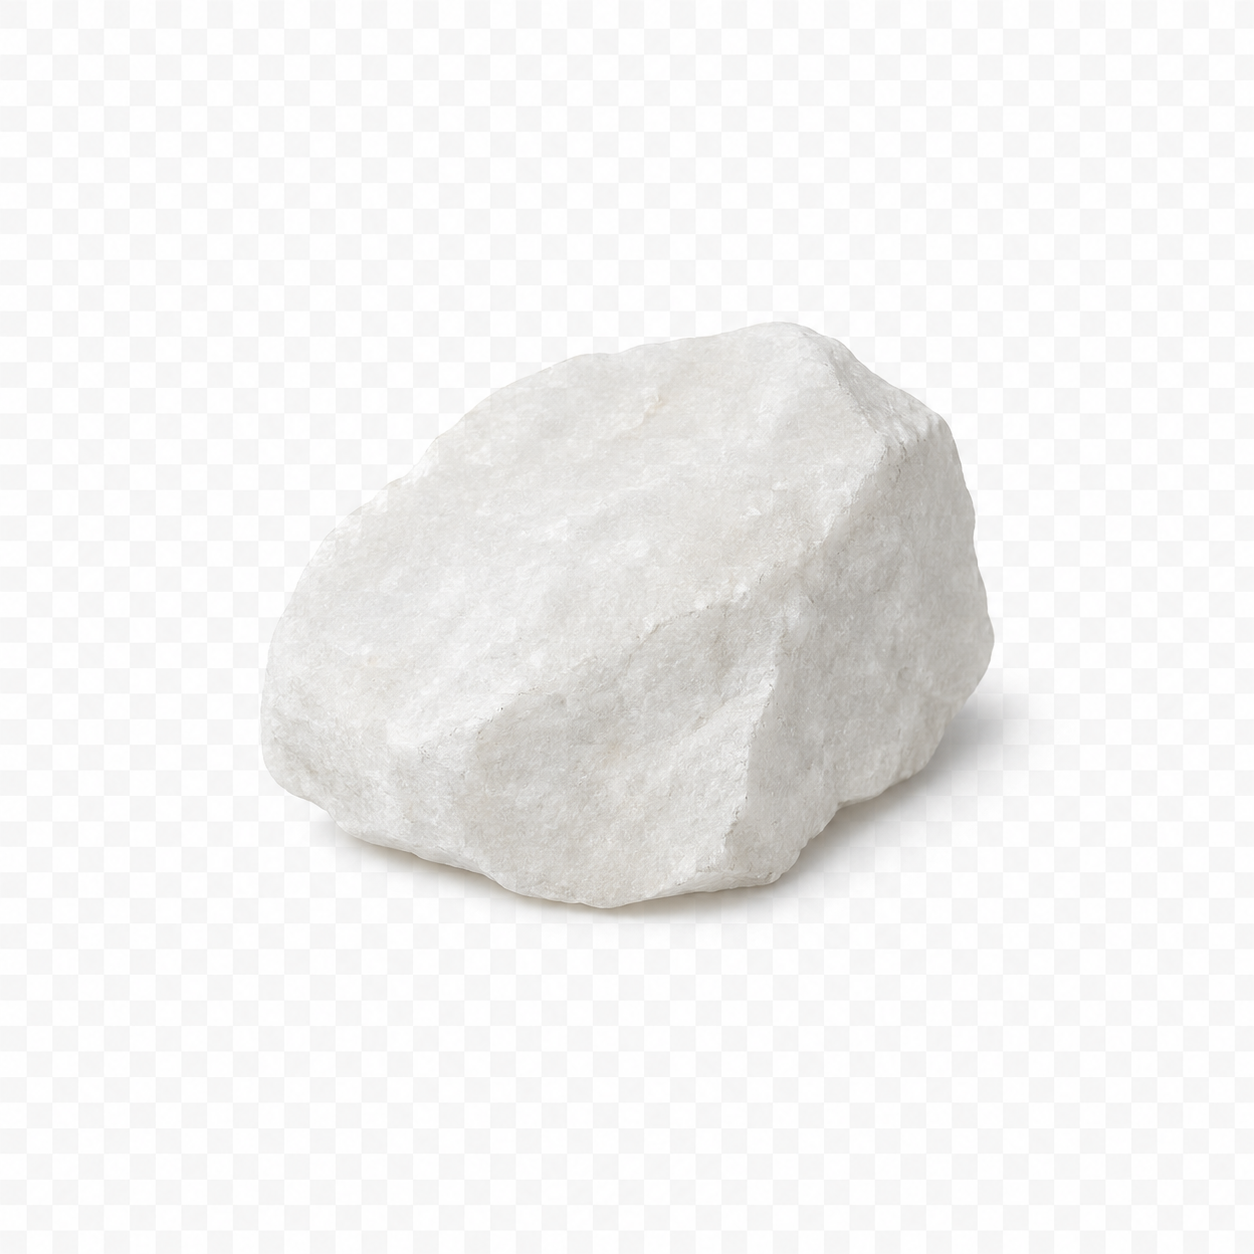
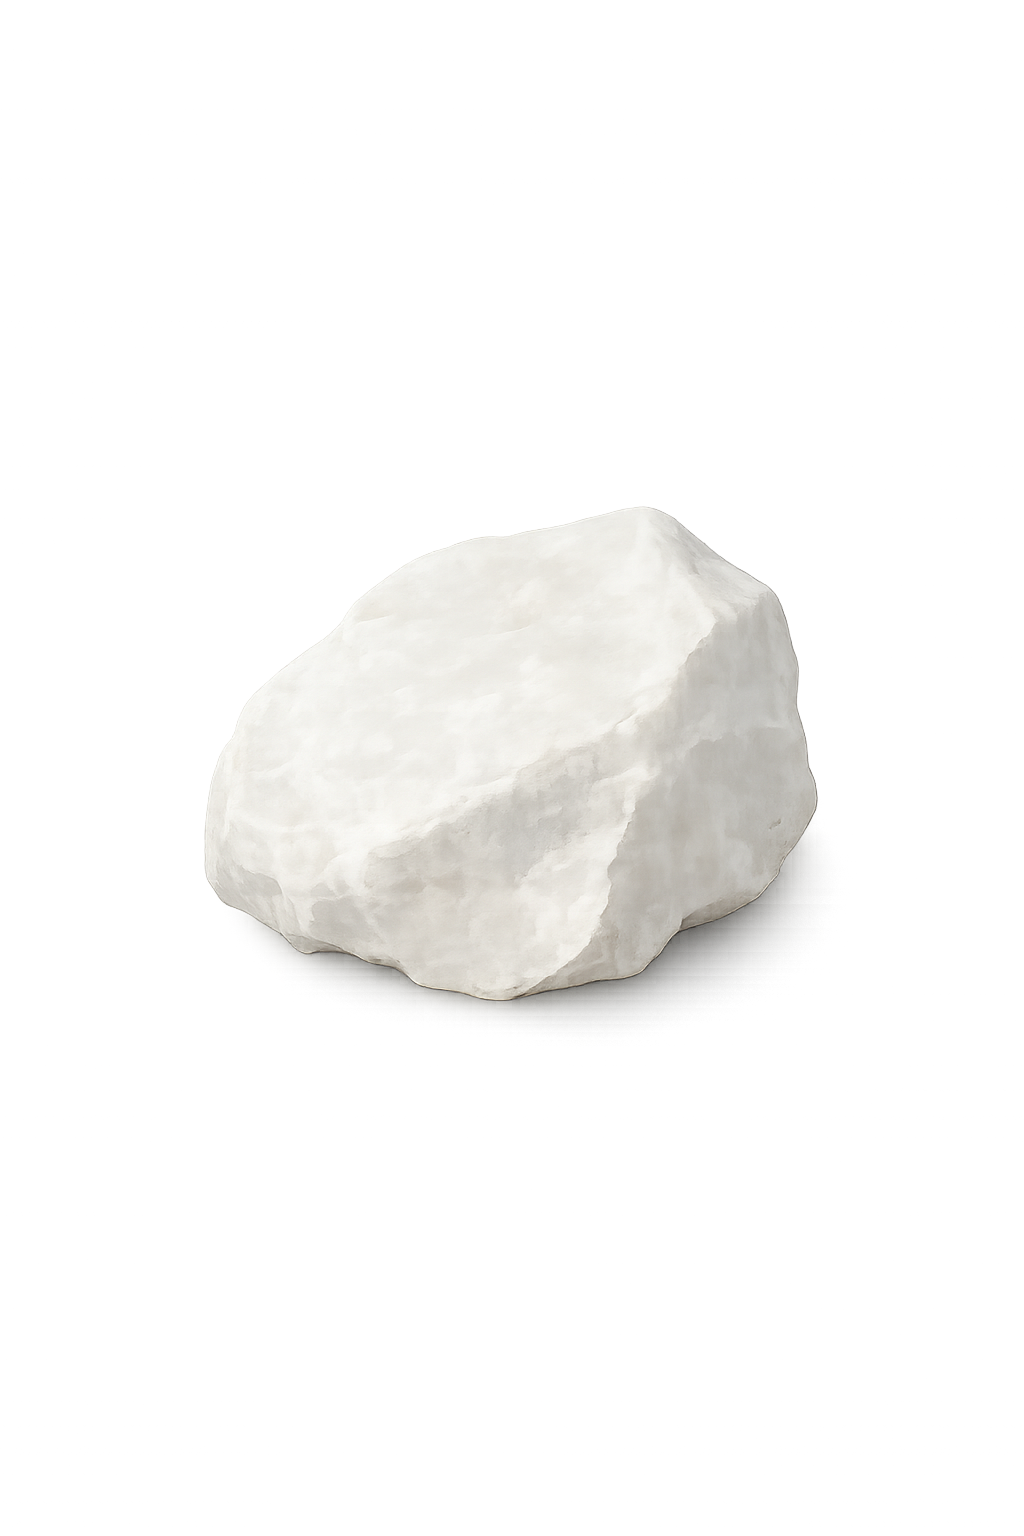
inventory: move rawstone accordion below rare items; update stone images
- equip overlay: rawstone accordion moved below equip-cols (RARE ITEMS section)
- RAW_STONE_IMG.hikaru updated from placeholder to rawstone_hikaru.png
- rawstone_kirei.png replaced with new image
- rawstone_hikaru.png added (少し光る石)

Changed region(s): [[0.1875, 0.2488, 0.8125, 0.7464], [0.5, 0.5598, 0.5625, 0.5909], [0.7812, 0.4976, 0.8125, 0.5287]]

diff --git a/room/undertone/index.html b/room/undertone/index.html
@@ -1125,7 +1125,8 @@ function submitUtPw() {
 <div id="equip-overlay" style="display:none;position:fixed;inset:0;z-index:300;background:rgba(8,13,24,0.97);overflow-y:auto;padding:48px 20px 80px;">
   <p style="font-family:'Cormorant Garamond',serif;font-size:11px;letter-spacing:8px;color:#475569;text-align:center;margin-bottom:6px;">INVENTORY</p>
   <p style="font-family:'Cormorant Garamond',serif;font-size:22px;letter-spacing:6px;color:#e2e8f0;text-align:center;margin-bottom:24px;">持ち物</p>
-  <div style="max-width:480px;margin:0 auto 20px;background:rgba(255,255,255,0.02);border:1px solid rgba(255,255,255,0.07);border-radius:12px;overflow:hidden;">
+  <div id="equip-cols" style="display:flex;gap:12px;max-width:480px;margin:0 auto;"></div>
+  <div style="max-width:480px;margin:20px auto 0;background:rgba(255,255,255,0.02);border:1px solid rgba(255,255,255,0.07);border-radius:12px;overflow:hidden;">
     <div onclick="toggleRawstoneAccordion()" style="display:flex;align-items:center;gap:14px;padding:14px 18px;cursor:pointer;">
       <img src="../../item/rawstone.png" alt="未鑑定の石" style="width:40px;height:40px;object-fit:cover;border-radius:6px;flex-shrink:0;">
       <p style="font-family:'Cormorant Garamond',serif;font-size:11px;letter-spacing:3px;color:#94a3b8;flex:1;">未鑑定の石</p>
@@ -1134,7 +1135,6 @@ function submitUtPw() {
     </div>
     <div id="equip-rawstone-slots" style="display:none;padding:0 18px 16px;display:none;gap:12px;flex-direction:row;"></div>
   </div>
-  <div id="equip-cols" style="display:flex;gap:12px;max-width:480px;margin:0 auto;"></div>
   <div style="text-align:center;margin-top:32px;">
     <button onclick="closeEquip()" style="font-family:'Cormorant Garamond',serif;font-size:11px;letter-spacing:5px;color:#475569;background:none;border:1px solid rgba(255,255,255,0.07);border-radius:50px;padding:13px 32px;cursor:pointer;">閉じる</button>
   </div>
@@ -2563,7 +2563,7 @@ function submitUtPw() {
 
   var RAW_STONE_IMG = {
     kirei:    '../../item/rawstone_kirei.png',
-    hikaru:   '../../item/rawstone.png',
+    hikaru:   '../../item/rawstone_hikaru.png',
     tsumetai: '../../item/rawstone_tsumetai.png',
   };
 
